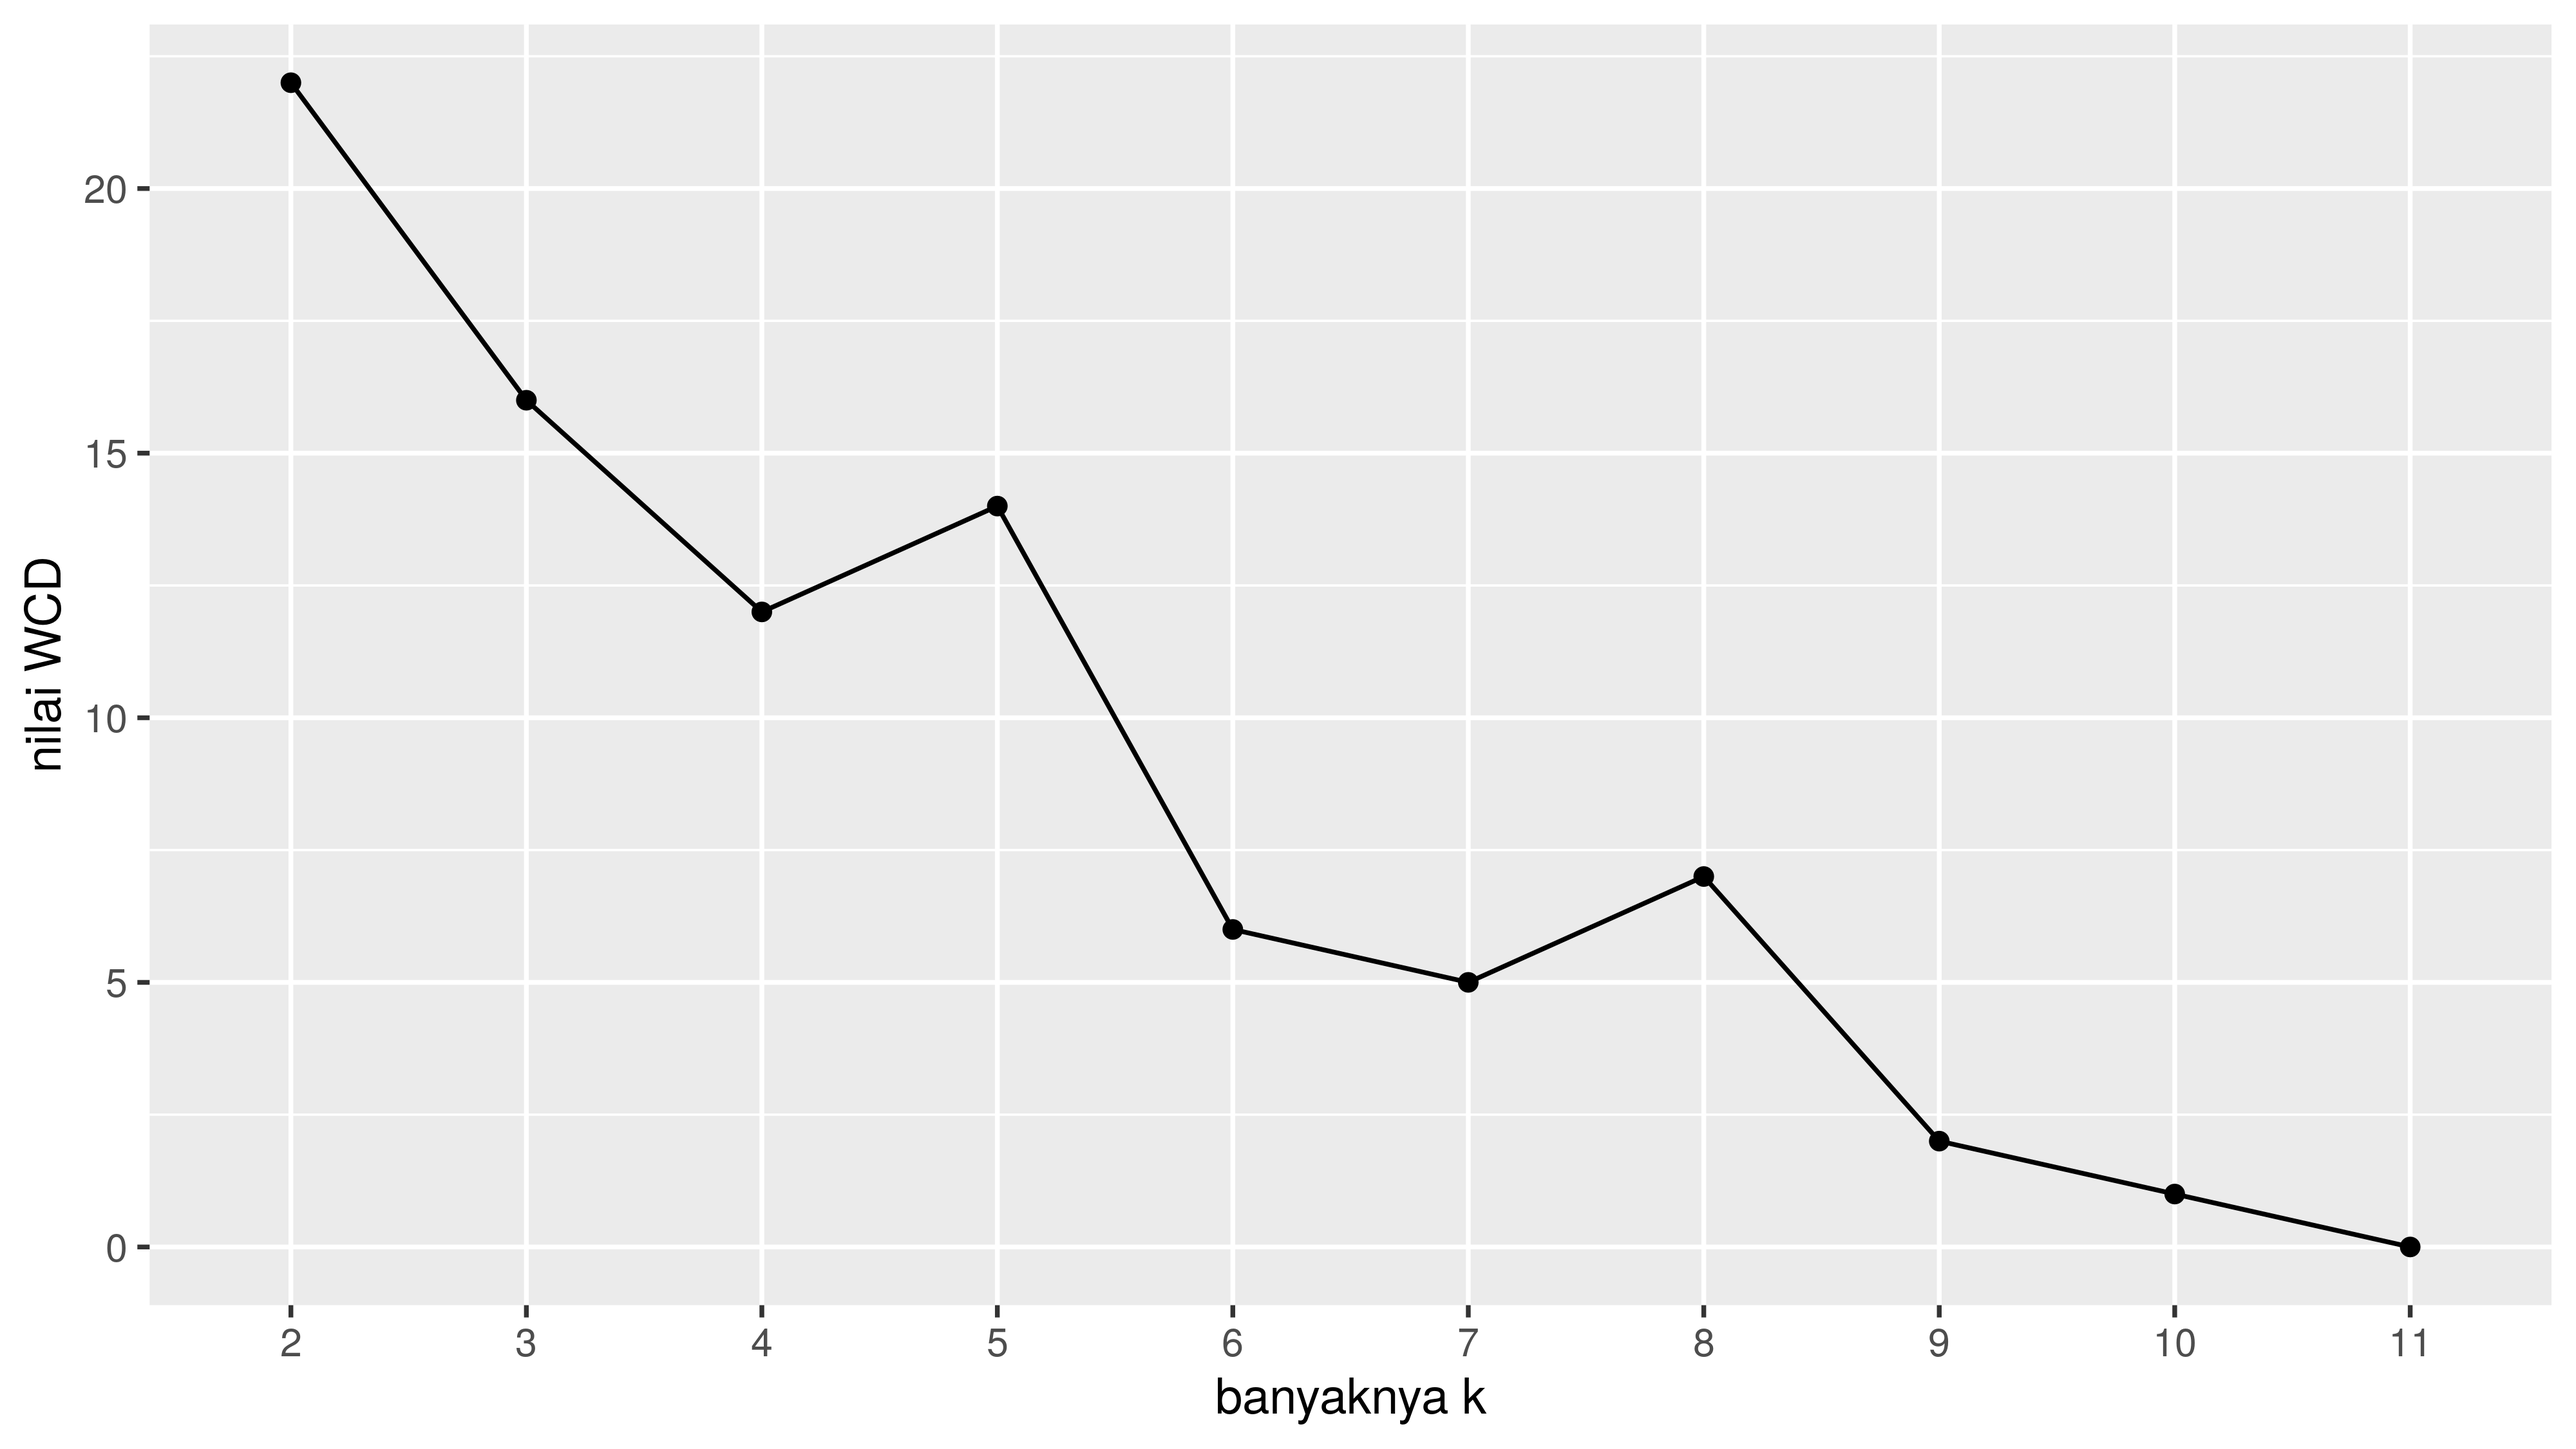
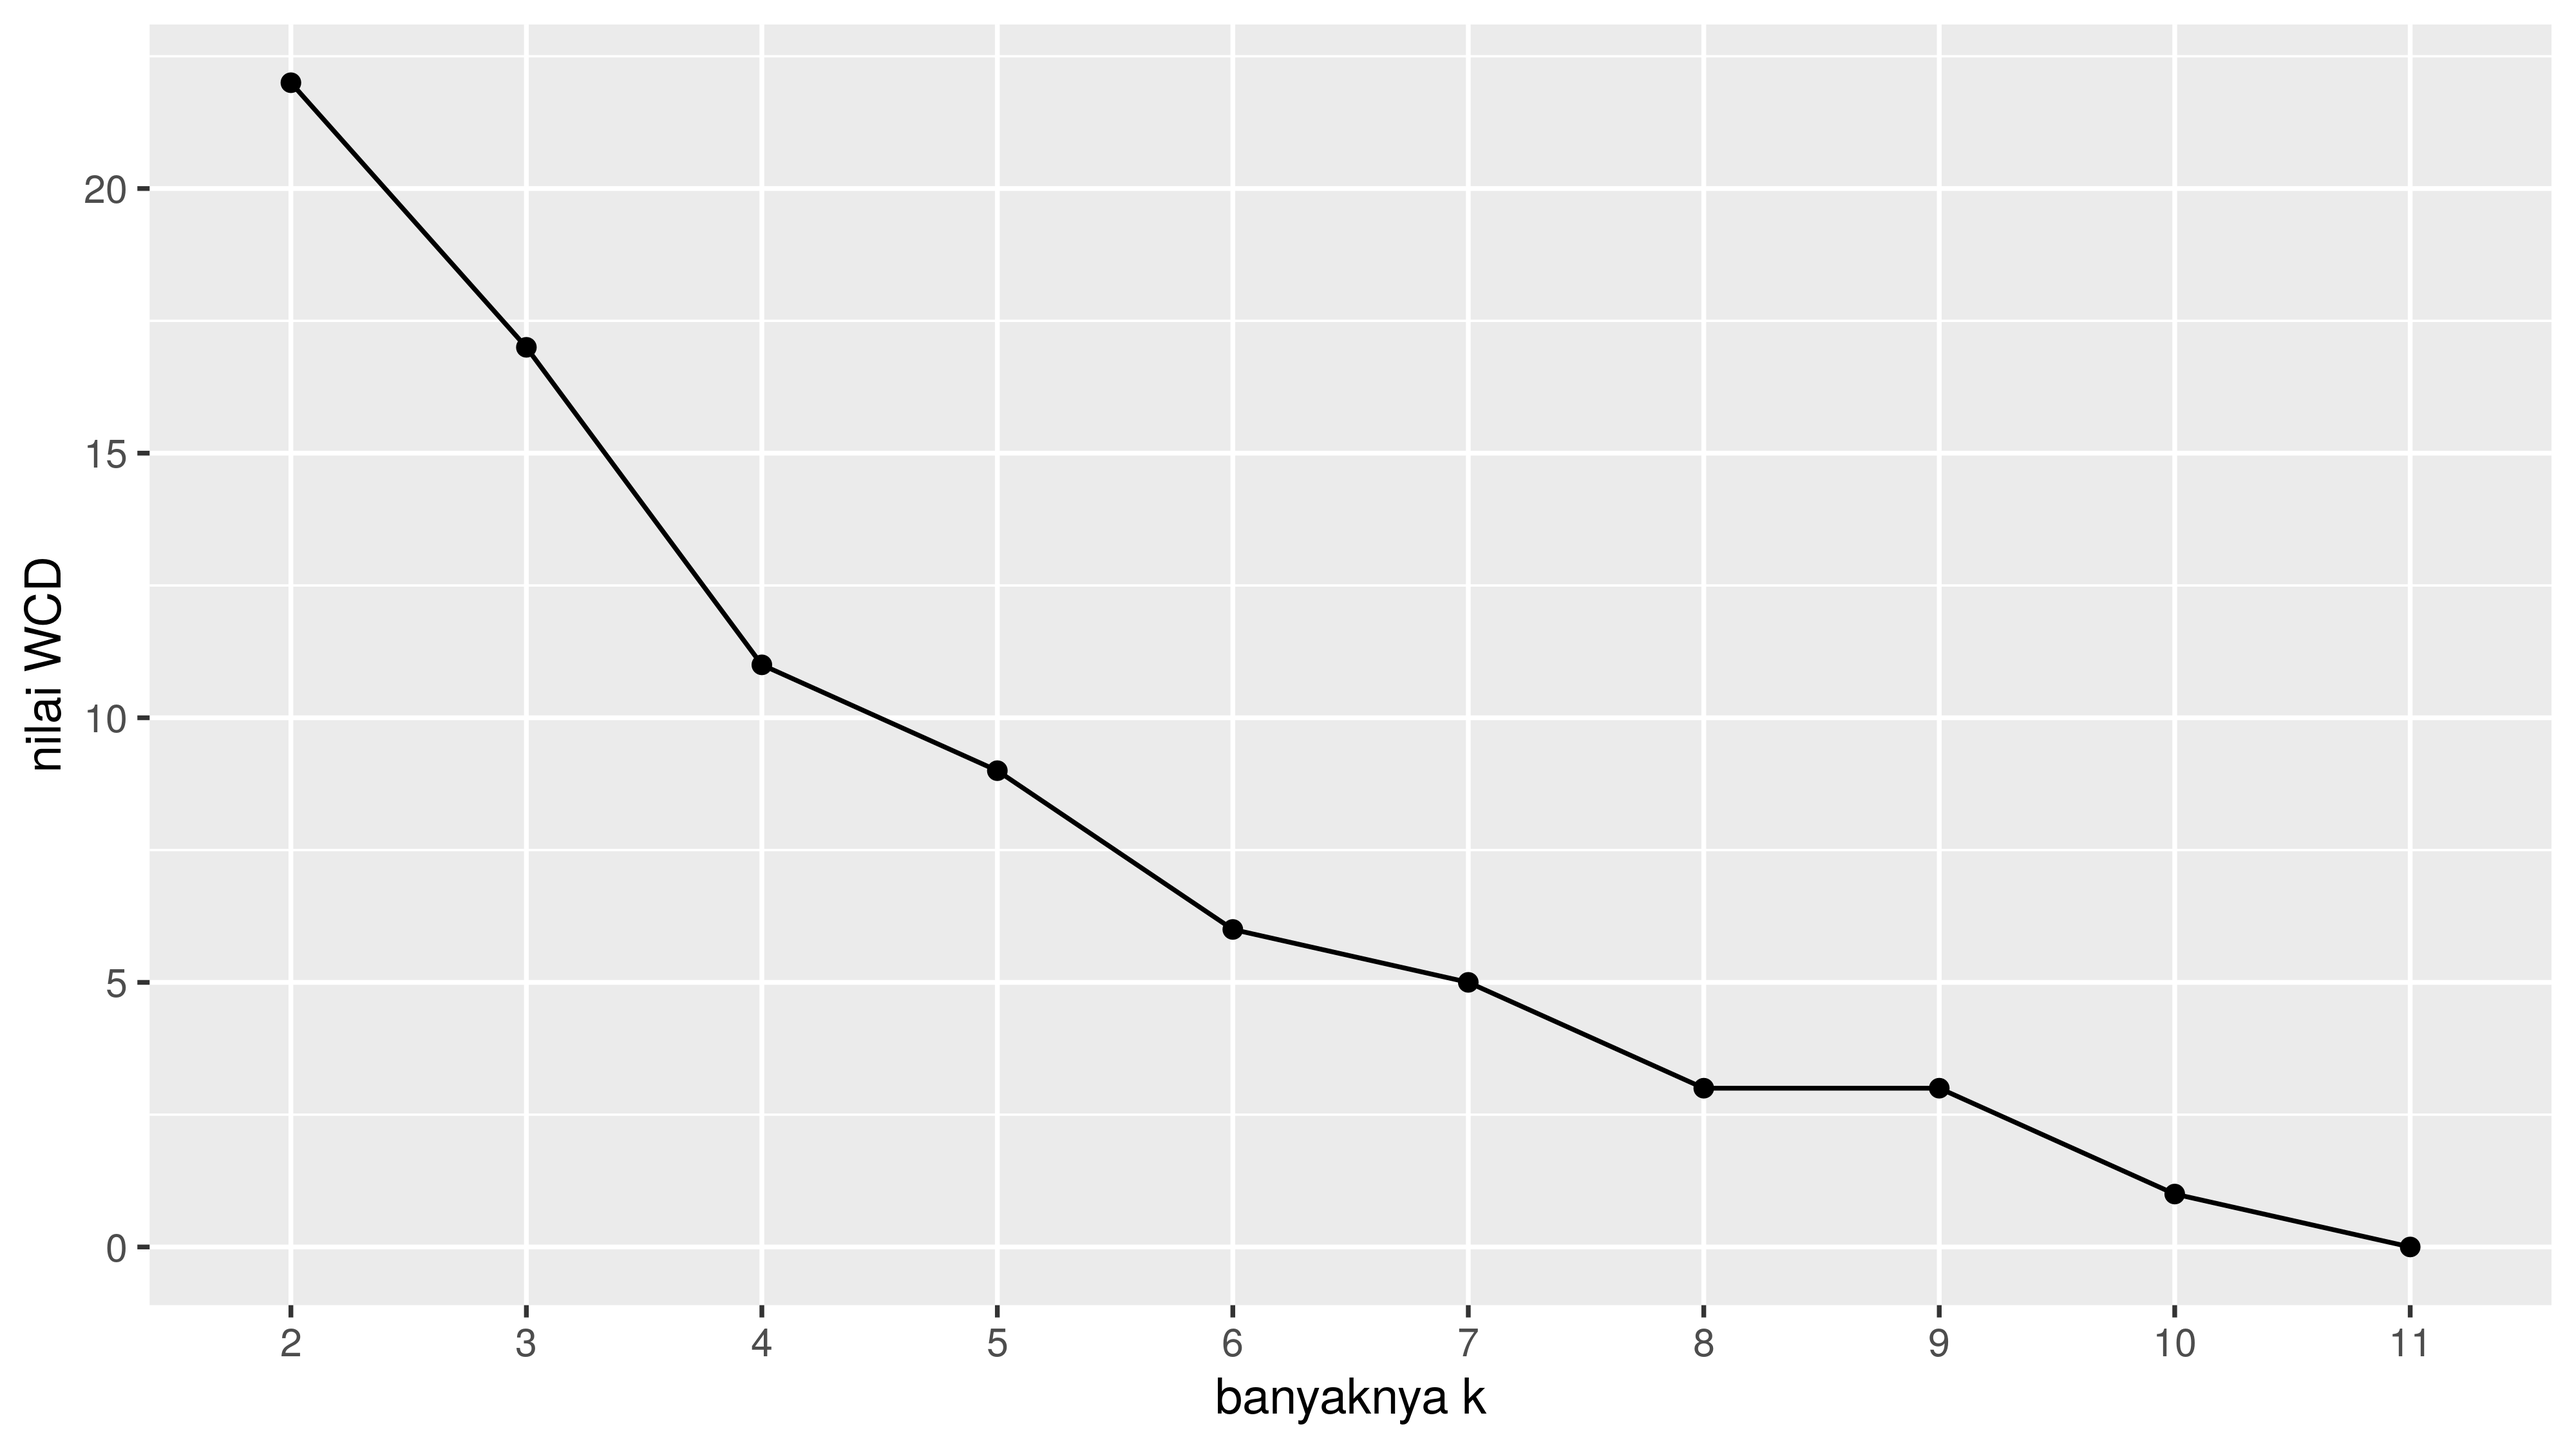
Save dulu

diff --git a/_posts/market riset/post 8/2024-09-23-k-modes.md b/_posts/market riset/post 8/2024-09-23-k-modes.md
@@ -266,14 +266,15 @@ wcd_k = mcmapply(within_diff,k_val)
 
 Dari grafik di atas, saya bisa menyimpulkan ada dua kemungkinan nilai
 ![k](https://latex.codecogs.com/svg.latex?k "k"), yakni
-![k=4](https://latex.codecogs.com/svg.latex?k%3D4 "k=4") atau
-![k=6](https://latex.codecogs.com/svg.latex?k%3D6 "k=6").
+![k=4](https://latex.codecogs.com/svg.latex?k%3D6 "k=6") atau
+![k=6](https://latex.codecogs.com/svg.latex?k%3D8 "k=8").
 
 **Langkah IV** Saya akan coba dulu untuk
-![k=4](https://latex.codecogs.com/svg.latex?k%3D4 "k=4") berikut ini:
+![k=6](https://latex.codecogs.com/svg.latex?k%3D4 "k=6") berikut ini:
+
 
 ``` r
-cl_ana = kmodes(df,4,iter.max = 15)
+cl_ana = kmodes(df,6,iter.max = 10)
 
 # berikut adalah cluster center-nya
 cl_ana$modes |> 
@@ -282,10 +283,12 @@ cl_ana$modes |>
 
 | age   | gender | marital_status | income | purchase_frequency |
 |:------|:-------|:---------------|:-------|:-------------------|
-| 35-44 | Male   | Married        | High   | Monthly            |
+| 18-24 | Male   | Single         | Low    | Daily              |
+| 35-44 | Male   | Single         | High   | Monthly            |
 | 18-24 | Female | Married        | Medium | Weekly             |
-| 35-44 | Female | Married        | High   | Monthly            |
-| 45-54 | Male   | Single         | Low    | Daily              |
+| 55+   | Female | Married        | High   | Monthly            |
+| 45-54 | Female | Divorced       | Medium | Rarely             |
+| 25-34 | Male   | Single         | Low    | Daily              |
 
 ``` r
 # berikut adalah tabulasinya
@@ -299,35 +302,35 @@ df |>
   tab_pivot()
 ```
 
-|                      |  cluster  |       |     |     |
-|----------------------|-----------|-------|-----|-----|
-|                      |  1        |  2    |  3  |  4  |
-|  age                 |           |       |     |     |
-|    18-24             |           | 33.3  |     | 25  |
-|    25-34             |           | 33.3  |     | 25  |
-|    35-44             | 50        |       | 50  |     |
-|    45-54             |           | 33.3  |     | 50  |
-|    55+               | 50        |       | 50  |     |
-|    #Total cases      | 2         | 3     | 2   | 4   |
-|  gender              |           |       |     |     |
-|    Female            |           | 100.0 | 100 |     |
-|    Male              | 100       |       |     | 100 |
-|    #Total cases      | 2         | 3     | 2   | 4   |
-|  marital_status      |           |       |     |     |
-|    Divorced          |           | 33.3  |     | 25  |
-|    Married           | 50        | 66.7  | 100 |     |
-|    Single            | 50        |       |     | 75  |
-|    #Total cases      | 2         | 3     | 2   | 4   |
-|  income              |           |       |     |     |
-|    High              | 100       |       | 100 | 25  |
-|    Low               |           |       |     | 50  |
-|    Medium            |           | 100.0 |     | 25  |
-|    #Total cases      | 2         | 3     | 2   | 4   |
-|  purchase_frequency  |           |       |     |     |
-|    Daily             |           |       |     | 50  |
-|    Monthly           | 100       |       | 100 |     |
-|    Rarely            |           | 33.3  |     | 25  |
-|    Weekly            |           | 66.7  |     | 25  |
-|    #Total cases      | 2         | 3     | 2   | 4   |
+|                      |  cluster  |     |     |       |     |     |
+|----------------------|-----------|-----|-----|-------|-----|-----|
+|                      |  1        |  2  |  3  |  4    |  5  |  6  |
+|  age                 |           |     |     |       |     |     |
+|    18-24             | 100       |     | 50  |       |     |     |
+|    25-34             |           |     | 50  |       |     | 100 |
+|    35-44             |           | 50  |     | 33.3  |     |     |
+|    45-54             |           | 50  |     |       | 100 |     |
+|    55+               |           |     |     | 66.7  |     |     |
+|    #Total cases      | 1         | 2   | 2   | 3     | 2   | 1   |
+|  gender              |           |     |     |       |     |     |
+|    Female            |           |     | 100 | 66.7  | 50  |     |
+|    Male              | 100       | 100 |     | 33.3  | 50  | 100 |
+|    #Total cases      | 1         | 2   | 2   | 3     | 2   | 1   |
+|  marital_status      |           |     |     |       |     |     |
+|    Divorced          |           |     |     |       | 100 |     |
+|    Married           |           |     | 100 | 100.0 |     |     |
+|    Single            | 100       | 100 |     |       |     | 100 |
+|    #Total cases      | 1         | 2   | 2   | 3     | 2   | 1   |
+|  income              |           |     |     |       |     |     |
+|    High              |           | 100 |     | 100.0 |     |     |
+|    Low               | 100       |     |     |       |     | 100 |
+|    Medium            |           |     | 100 |       | 100 |     |
+|    #Total cases      | 1         | 2   | 2   | 3     | 2   | 1   |
+|  purchase_frequency  |           |     |     |       |     |     |
+|    Daily             | 100       |     |     |       |     | 100 |
+|    Monthly           |           | 50  |     | 100.0 |     |     |
+|    Rarely            |           |     |     |       | 100 |     |
+|    Weekly            |           | 50  | 100 |       |     |     |
+|    #Total cases      | 1         | 2   | 2   | 3     | 2   | 1   |
 
 `if you find this article helpful, support this blog by clicking the ads.`
